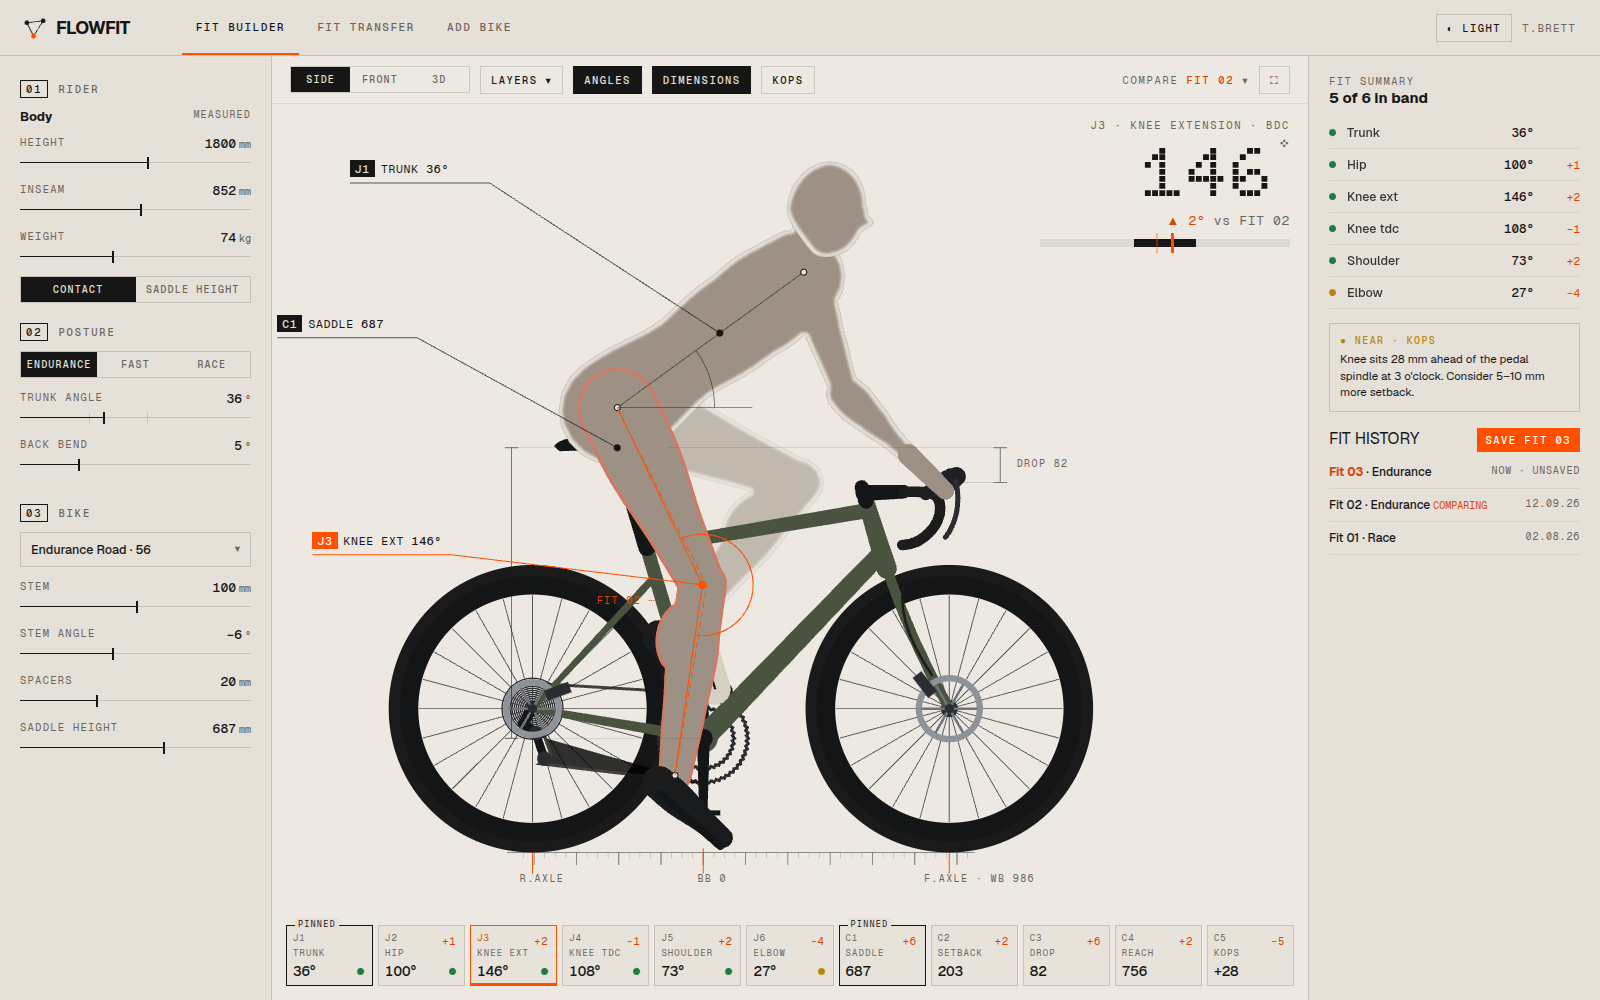
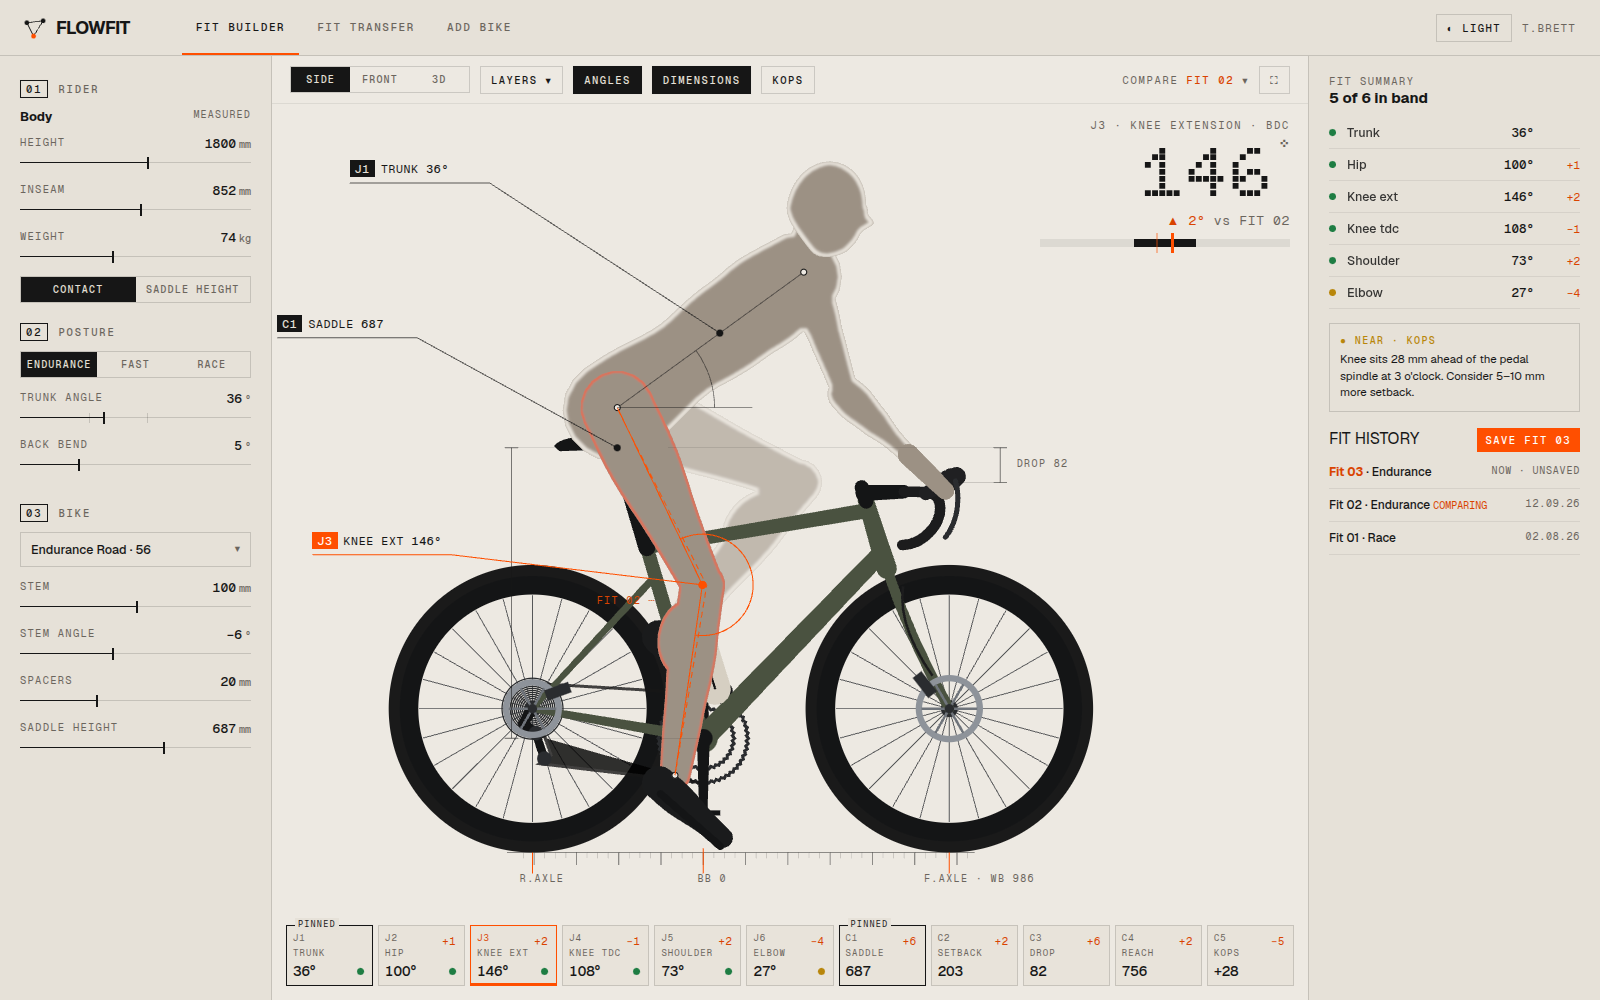
Rider calibration: use the rim diameter (630 mm) as the scale
The reference wheel was clicked rim edge to rim edge, so the scale is
the 700c rim (~630 mm), not the outside of the tyre (680 mm). Rescales
the reference widths by 630/680, re-fits the calibration (all stations
within 1%), defaults the measuring page to rim diameter, and refreshes
the mock-ups.

Claude-Session: https://claude.ai/code/session_01NLmMAFFsk38kWFHaEgHSMq

diff --git a/docs/plans/mockups/src/rider-measure/index.html b/docs/plans/mockups/src/rider-measure/index.html
@@ -65,7 +65,7 @@ input[type=number] { font-family: var(--mono); font-size: 12px; width: 70px; bac
 <header>
   <h1>Rider Proportion Gauge</h1>
   <span class="meta">Scale <b id="scaleOut">not set</b></span>
-  <span class="meta"><label for="wheelMm">Wheel Ø</label> <input id="wheelMm" type="number" value="680" min="500" max="800"> mm</span>
+  <span class="meta"><label for="wheelMm">Rim Ø</label> <input id="wheelMm" type="number" value="630" min="500" max="800"> mm</span>
   <span class="meta" id="saveState">Not saved yet</span>
 </header>
 
@@ -208,7 +208,7 @@ function render() {
   $('skip').hidden = !(task && task.k === 'w');
   if (!img) { $('pk').textContent = 'Step'; $('pt').textContent = 'Load the photo to start'; }
   else if (!task) { $('pk').textContent = 'Done'; $('pt').textContent = 'All measurements are in'; $('ph').textContent = 'Click any row to redo it. Your measurements are saved for FlowFit.'; }
-  else if (task.k === 'scale') { $('pk').textContent = 'Scale'; $('pt').textContent = 'Click the outer edge of one wheel, then the opposite edge'; $('ph').textContent = 'Go straight through the hub, tyre edge to tyre edge. This sets mm per pixel from the wheel diameter.'; }
+  else if (task.k === 'scale') { $('pk').textContent = 'Scale'; $('pt').textContent = 'Click one edge of the rim (where the tyre meets it), then the opposite edge'; $('ph').textContent = 'Go straight through the hub. A 700c rim edge is about 630 mm across; use 680 if you click the outside of the tyre instead.'; }
   else if (task.k === 'bone') { const s = segOf(task.seg), n = (state.bones[task.seg] || []).length; $('pk').textContent = s.name + ' · bone line'; $('pt').textContent = 'Click the ' + (n ? s.b : s.a); $('ph').textContent = 'Click joint centres, not the outline. The widths are measured square to this line.'; }
   else { const s = segOf(task.seg), w = (state.widths[task.seg] || [])[task.i], n = Array.isArray(w) ? w.length : 0; $('pk').textContent = s.name + ' · ' + s.lab[task.i]; $('pt').textContent = n ? 'Click the other edge' : 'Click one edge where the orange guide crosses it'; $('ph').textContent = 'Zoom in for accuracy. If another limb or the bike hides the edge, skip this one.'; }
   const L = $('list'); L.textContent = '';

diff --git a/docs/plans/mockups/src/rider3.js b/docs/plans/mockups/src/rider3.js
@@ -56,7 +56,7 @@ export const HELMET = (() => {
   return { A, cx, cy, RA, sect, ventMask, x0: cx - A * RA + 1, x1: cx + A - 1 };
 })();
 // Per-station width calibration against the reference photo (multipliers at the measured stations; linear between, flat beyond).
-export const CAL = {thigh: [[0.25,1.055],[0.5,1.082],[0.75,1.102]],calf: [[0.25,1.435],[0.5,1.806],[0.75,1.978]],upperArm: [[0.25,1.412],[0.5,1.172],[0.75,1.219]],forearm: [[0.25,1.381],[0.5,1.549],[0.75,1.288]],torso: [[0.3,1.484],[0.5,1.3],[0.7,1.044]],neck: [[0.5,1.36]]};
+export const CAL = {thigh: [[0.25,0.976],[0.5,1.003],[0.75,1.018]],calf: [[0.25,1.333],[0.5,1.679],[0.75,1.842]],upperArm: [[0.25,1.317],[0.5,1.086],[0.75,1.13]],forearm: [[0.25,1.289],[0.5,1.436],[0.75,1.18]],torso: [[0.3,1.372],[0.5,1.204],[0.7,0.968]],neck: [[0.5,1.258]]};
 export const calAt = (seg, t) => { const c = CAL[seg]; if (t <= c[0][0]) return c[0][1]; for (let i = 0; i < c.length - 1; i++) if (t <= c[i + 1][0]) return c[i][1] + (c[i + 1][1] - c[i][1]) * (t - c[i][0]) / (c[i + 1][0] - c[i][0]); return c.at(-1)[1]; };
 const TAG = (m, seg) => { m.userData.seg = seg; return m; };
 export function buildRider(G, MAT) {

diff --git a/docs/plans/site-redesign.md b/docs/plans/site-redesign.md
@@ -306,23 +306,23 @@ Restyle only. Positions come from the existing `bike` / `mannequin` sketches in 
   - **Reference:** `mockups/09-head.png`.
 - **Build: calibrated to measured widths from a reference photo of a pro rider.**
   - **Method:** the product owner measured the photo in the Rider Proportion Gauge (a click-to-measure page).
-    - The scale comes from the wheel diameter (680 mm).
+    - The scale comes from the **rim** diameter: rim edge to rim edge ≈ 630 mm on 700c (680 mm is the outside of the tyre).
     - Each width is taken square to its bone, at 25%, 50% and 75% along it (torso at 30%, 50% and 70%), so the
       different poses don't matter.
     - Our model was measured the same way: the silhouette width of each limb's own mesh, square to the same bone.
   - **Fit:** `CAL` in `mockups/src/rider3.js` holds a multiplier per station: linear between stations, flat beyond.
     It scales both the base profile and the muscle bulges (torso: front-to-back depth only). Every station is within
-    1.3% of the reference.
+    1% of the reference.
   - **Reference widths (mm, side view):**
 
     | Part | 25% / 30% | 50% | 75% / 70% |
     |---|---|---|---|
-    | Thigh | 193 | 178 | 141 |
-    | Calf | 132 | 128 | 96 |
-    | Upper arm | 110 | 94 | 79 |
-    | Forearm | 87 | 76 | 55 |
-    | Torso (stomach / lower chest / chest) | 242 | 258 | 275 |
-    | Neck | — | 114 | — |
+    | Thigh | 179 | 165 | 131 |
+    | Calf | 122 | 119 | 89 |
+    | Upper arm | 102 | 87 | 74 |
+    | Forearm | 81 | 71 | 51 |
+    | Torso (stomach / lower chest / chest) | 224 | 239 | 255 |
+    | Neck | — | 106 | — |
   - **2D:** the side view applies the same `calAt(segment, t)` to its silhouette profiles.
   - The mock-up pose uses trunk 36°, so the elbows bend (~27°). Real poses come from the app's IK.
 
